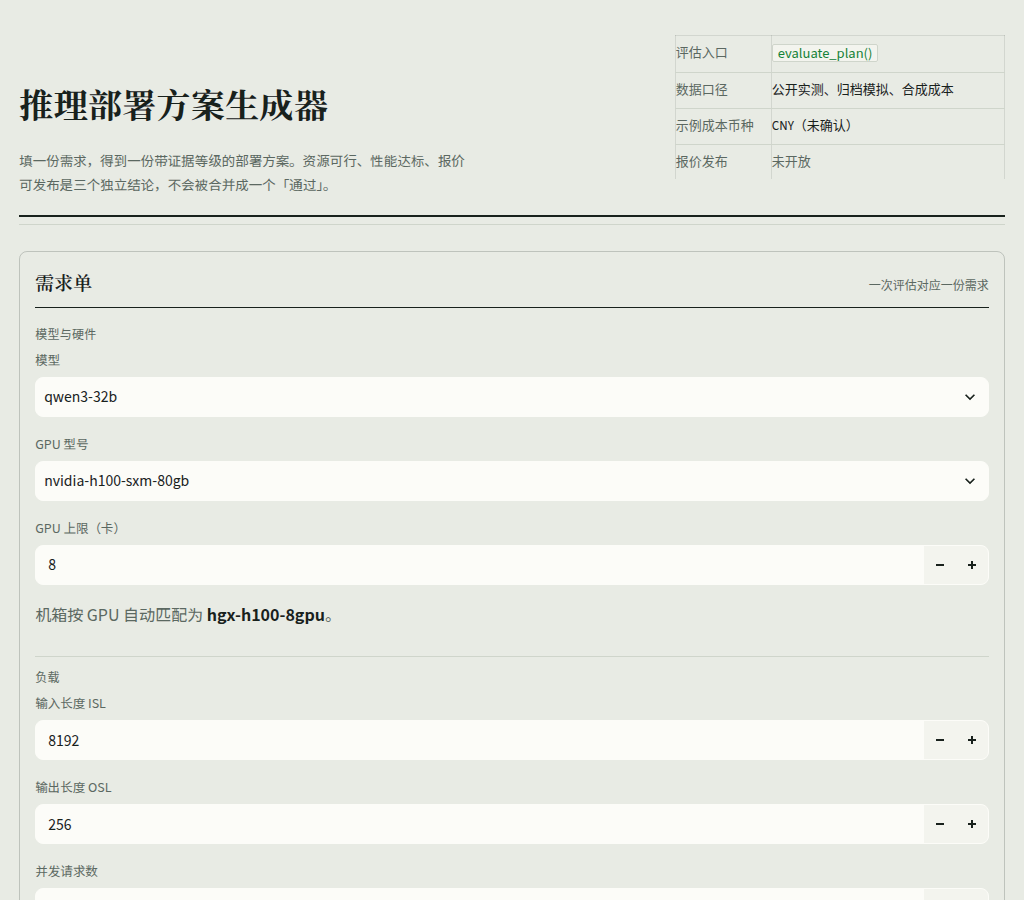
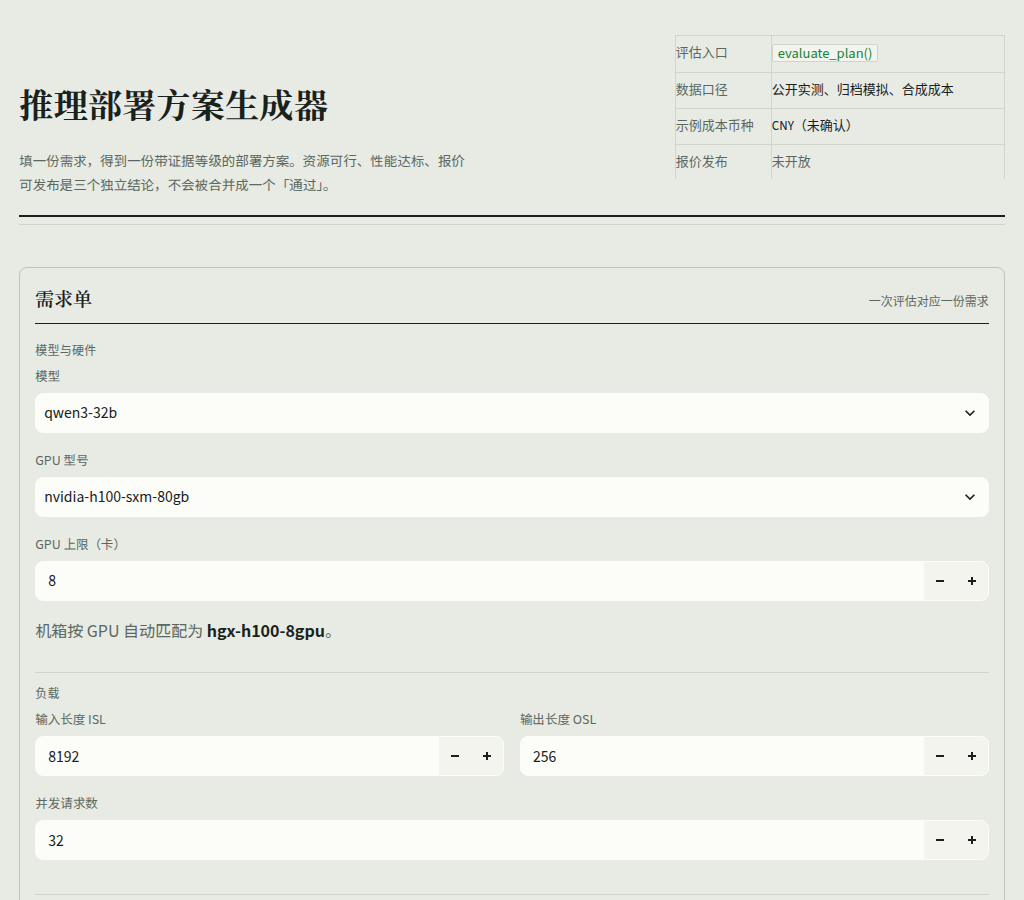
fix(ui): V1.1 收尾——实测口径与 GPU 上限一致、响应式收敛到主栏
- headline 的实测统计只遍历“条件可行且在 GPU 上限内”的候选；
  超限、不可行或资源未确认的实测数据只作历史参考，不再计入可用实测
- 1100px 断点改为 :has(.main-left-marker) 只作用于最外层主栏；
  需求区 ISL/OSL、SLA 双输入与结果区三个下载按钮保持各自布局
- 反向测试：4 卡上限 + TP8 observed_pass 不得计入可用实测
- 截图更新：1024px 主栏上下排列，内部控件不换行

验证：906 passed, 1 skipped；verify_all 66/66。
V1.1 前端冻结（后续仅增加 T 阶段场景切换入口）。

diff --git a/app/ui_style.css b/app/ui_style.css
@@ -257,10 +257,13 @@ a{color:var(--pine); text-decoration:none; border-bottom:1px solid rgba(28,90,73
 a:hover{border-bottom-color:var(--pine);}
 
 /* 笔记本宽度：上下布局，避免右侧表格被挤压 */
+.main-left-marker{display:none;}
+
+/* 只让最外层主栏上下排列；内部输入框与下载按钮保持各自布局 */
 @media (max-width:1100px){
   [data-testid="stMainBlockContainer"]{padding:1.2rem 1.2rem 3rem;}
-  [data-testid="stHorizontalBlock"]{flex-wrap:wrap;}
-  [data-testid="stHorizontalBlock"] > [data-testid="stColumn"]{
+  [data-testid="stHorizontalBlock"]:has(.main-left-marker){flex-wrap:wrap;}
+  [data-testid="stHorizontalBlock"]:has(.main-left-marker) > [data-testid="stColumn"]{
     flex:1 1 100% !important; width:100% !important; min-width:100% !important;
   }
 }

diff --git a/tests/test_s_phase_demo.py b/tests/test_s_phase_demo.py
@@ -575,6 +575,41 @@ def test_headline_and_ledger_respect_gpu_cap():
     assert "1 个静态条件可行的候选超过 4 卡上限" in ledger
 
 
+def test_headline_does_not_count_observed_evidence_of_over_cap_candidates():
+    """GPU 超限的候选即使有实测通过，也不能算进“可用候选的实测结论”。"""
+    from types import SimpleNamespace as NS
+
+    presenters = _presenters()
+    result = NS(
+        candidates=[
+            NS(
+                tp_size=4,
+                dp_size=1,
+                gpu_count=4,
+                static_status="conditional_feasible",
+                sla_status="not_evaluable",
+                quote_publishable=False,
+            ),
+            NS(
+                tp_size=8,
+                dp_size=1,
+                gpu_count=8,
+                static_status="conditional_feasible",
+                sla_status="observed_pass",
+                quote_publishable=False,
+            ),
+        ],
+        request_echo={"sla": {"ttft_p99_ms_max": 400}, "max_total_gpus": 4},
+        domains={"governance": "not_configured"},
+        simulation=None,
+    )
+    sentence = presenters.headline(result)
+    assert "1 个候选在 4 卡上限内静态可行" in sentence
+    assert "可用候选中尚无实测 SLA 结论" in sentence
+    assert "1 个候选不在当前可用范围内" in sentence
+    assert "1 个可用候选有实测 SLA 结论" not in sentence
+
+
 def test_predicted_pass_is_blue_observed_pass_is_green():
     presenters = _presenters()
     assert presenters.VERDICT["predicted_pass"][0] == "pred"
@@ -635,7 +670,7 @@ def test_result_homepage_prioritises_conclusion_and_downloads():
     assert "方案已生成" in text
     assert "分析覆盖" in text
     assert "核心候选对比" in text
-    assert "尚无目标配置的实测 SLA 证据" in text
+    assert "可用候选中尚无实测 SLA 结论" in text
 
     labels = [expander.label for expander in app.expander]
     assert "评估链路与三线结论" in labels

diff --git a/app/ui_presenters.py b/app/ui_presenters.py
@@ -247,11 +247,15 @@ def _sim_label(candidate: Any) -> str:
 def headline(result: Any) -> str:
     candidates = result.candidates
     cap = result.request_echo.get("max_total_gpus")
-    # 与主表同一判据：GPU 超限的候选不能算作“可行”
+    # 与主表、账本同一判据：GPU 超限的候选不能算作“可用”
     feasible = [c for c in candidates if resource_condition(c, cap)[1] == "条件可行"]
-    observed = sum(
+    observed_all = sum(
         1 for c in candidates if c.sla_status in ("observed_pass", "observed_fail")
     )
+    observed = sum(
+        1 for c in feasible if c.sla_status in ("observed_pass", "observed_fail")
+    )
+    excluded_observed = observed_all - observed
     sla_configured = result.request_echo.get("sla") is not None
     parts: list[str] = []
     if feasible:
@@ -263,9 +267,16 @@ def headline(result: Any) -> str:
         parts.append("没有静态可行候选")
     if sla_configured:
         if observed:
-            parts.append(f"{observed} 个候选有实测 SLA 结论")
+            parts.append(f"{observed} 个可用候选有实测 SLA 结论")
+        elif feasible:
+            parts.append("可用候选中尚无实测 SLA 结论")
         else:
             parts.append("尚无目标配置的实测 SLA 证据")
+        if excluded_observed:
+            parts.append(
+                f"另有 {excluded_observed} 个候选不在当前可用范围内，"
+                "其实测数据仅作历史参考"
+            )
     else:
         parts.append("未设置 SLA 阈值，本次不判定达标")
     sim = getattr(result, "simulation", None)

diff --git a/app/streamlit_app.py b/app/streamlit_app.py
@@ -151,6 +151,7 @@ hardwares = _catalog("data/hardware/hardware_catalog.yaml") or ["nvidia-h100-sxm
 left, right = st.columns([0.36, 0.64], gap="large")
 
 with left:
+    st.markdown("<span class='main-left-marker'></span>", unsafe_allow_html=True)
     with st.container(border=True):
         st.markdown(
             "<div class='panel-head'><b>需求单</b>"
